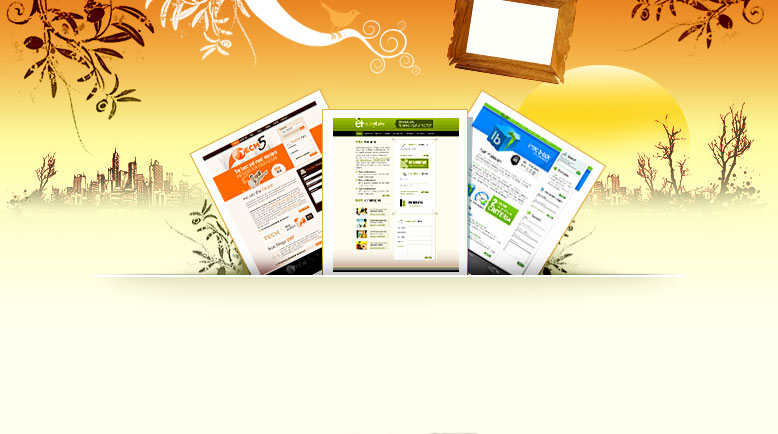
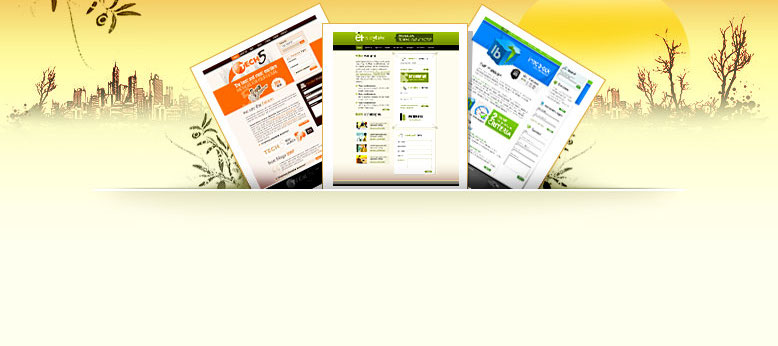
Changes to theme

diff --git a/public/themes/new_rise/stylesheets/style.css b/public/themes/new_rise/stylesheets/style.css
@@ -27,7 +27,7 @@ ul{
 	width:778px;
 	height:49px;
 	background:url(/themes/new_rise/images/header.jpg) 0 0 no-repeat;
-	padding:385px 0 0 0;
+	padding:297px 0 0 0;
 	margin:0 auto;
 	position:relative;
 }
@@ -71,7 +71,7 @@ ul{
 	padding:0 11px 0 11px;
 	background-color:#FFFFEF;
 	color:#523500;
-	font:bold 11px/19px  "Trebuchet MS", Arial, Helvetica, sans-serif;
+	font:bold 14px/19px  "Trebuchet MS", Arial, Helvetica, sans-serif;
 	text-decoration:none;
 	margin:0 1px 0 0;
 	float:left;
@@ -88,7 +88,7 @@ ul{
 	padding:0 11px 0 11px;
 	background:url(/themes/new_rise/images/nav_hover.gif) 0 0 repeat-x #FFFEEF;
 	color:#fff;
-	font:bold 11px/19px  "Trebuchet MS", Arial, Helvetica, sans-serif;
+	font:bold 14px/19px  "Trebuchet MS", Arial, Helvetica, sans-serif;
 	text-decoration:none;
 }
 /*------------------------------------------------header end---------------------*/
@@ -101,14 +101,14 @@ ul{
 }
 #body p.top{
 	display:block;
-	background:url(/themes/new_rise/images/body_top_bg.gif) 0 0 no-repeat;
+	/*background:url(/themes/new_rise/images/body_top_bg.gif) 0 0 no-repeat;*/
 	width:631px;
 	height:75px;
 	float:left;
 }
 #body p.bot{
 	display:block;
-	background:url(/themes/new_rise/images/body_bottom_bg.gif) 0 0 no-repeat;
+	/*background:url(/themes/new_rise/images/body_bottom_bg.gif) 0 0 no-repeat;*/
 	width:631px;
 	height:78px;
 	float:left;
